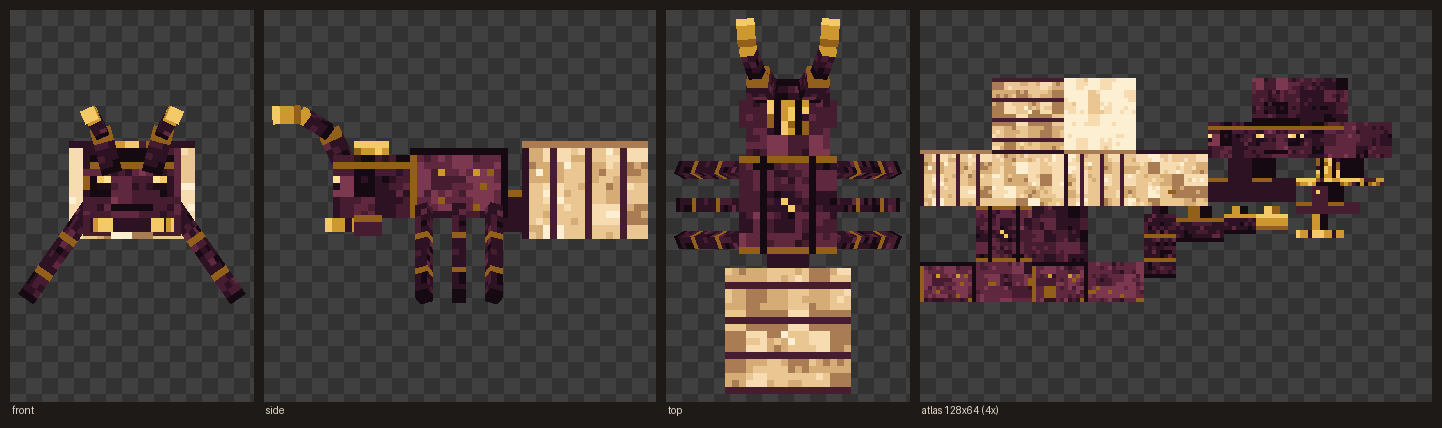
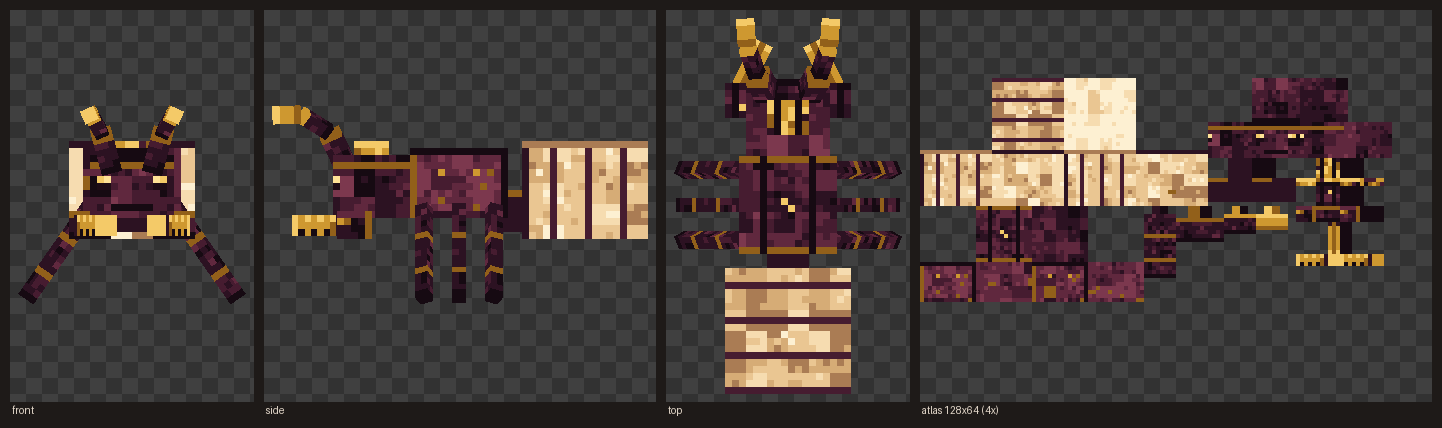
feat(queen): bigger, serrated pincers
Ep2 play-test revisions, WP-3b. Logan's call was "needs bigger more
intimidating pincers"; the round-1 taper and the flat base+tip-under-head
structure are preserved, everything else grows.

Shipped: base 4x3x4 -> 6x4x5, tip 2x2x4 -> 3x3x8,
QUEEN_MANDIBLE_TIP_ANGLE 0.3491 -> 0.45 (~26 degrees). setupAnim is
untouched.

The plan opened with base 5x3x5 / tip 3x2x6. Rendered beside the old jaw
those still read as a thin gold strip under a 12x9x11 skull -- what gives
a mandible weight in the side view is its height and its reach past the
face, and 3x2x6 grew neither much. A four-variant sweep put the step
change at +1 unit of height on each segment plus +2 of tip length.

Tip length, tip pivot and base width turned out to be one decision: a
longer tip swings its point further inward for a given curl, so the pivot
wants to move toward the midline, but the base counter-rotates under the
tip during the idle flex (they hinge about different pivots, neither
nested under the other) so the pivot also wants room from the base's
outer wall. 5-wide base with the pivot at x 6.5 passed at rest and pushed
the tip's rear-outer corner 0.15 units out through the base's flank at
full closure. 6-wide with the pivot at 7 leaves margin on both.

Verified numerically over the whole +/-0.09 flex range, not by eye:
- rear-outer corner stays >= 0.35 units inside the base at every extreme
  (no detached "floating box" seam, the failure the ep2 leg pass fixed)
[…]

diff --git a/assets-src/models.py b/assets-src/models.py
@@ -269,13 +269,24 @@ LARVA = {
 # soldier's 6x5x7), the thorax and head carry the soldier's armour language at
 # roughly double scale, and the legs are long enough to carry all of it.
 #
-# Atlas is 128x64. Box-UV packing, checked to fit:
+# Atlas is 128x64. Box-UV packing, checked to fit -- a region is (2d+2w) wide by
+# (d+h) tall, so a box that grows needs its slot re-measured, not just re-placed:
 #   gaster   (0,  0)  72x32     thorax  (0, 32)  56x24
 #   head     (72, 0)  46x20     petiole (72,20)  22x11
-#   crest    (94,20)  22x7      mandible_base (94,27) 16x7
-#   mandible_tip (94,34) 12x6   leg      (56,32)   8x18
+#   crest    (94,20)  22x7      mandible_base (94,27) 22x9
+#   mandible_tip (94,36) 22x11  leg      (56,32)   8x18
 #   antenna_base (64,32) 12x9   antenna_mid   (76,32)  8x7
 #   antenna_tip  (84,32)  8x6
+#
+# The two mandible slots grew with the WP-3b pincers (16x7 -> 22x9, 12x6 -> 22x11) and
+# were re-checked against every neighbour that could collide, not just the ones they
+# touch: crest ends at y=27 so mandible_base starts flush under it; petiole ends at
+# x=94 so both slots start flush right of it; head ends at y=20 and gaster at x=72,
+# both clear; thorax/leg/antenna_base/antenna_mid all live at x<=76, and antenna_tip
+# ends at x=92, so the whole x>=94 column below y=27 is the mandibles' alone. Widest
+# new right edge is 116 and lowest new bottom is 47, inside the 128x64 sheet with room
+# to spare. Verified by exhaustive pairwise rect overlap over every cube in QUEEN_ANT,
+# not by reading this comment.
 #
 # Ground is y=24; her back sits at y=0, i.e. 24px = 1.5 blocks tall, under the
 # 1.8-block hitbox.
@@ -298,16 +309,50 @@ QUEEN_LEG_ROOT_Y = 9.5
 QUEEN_LEG_LENGTH = 16
 
 # Play-test round 1, spec item 2: the mandibles read "too chunky" -- reworked from one
-# 5x4x8 block per side into two tapered segments (base 4x3x4, tip 2x2x4) so the jaw
-# actually narrows toward the point instead of staying a uniform slab. The tip also
-# curls toward the midline (yRot) for a pincer silhouette; sign is empirical -- verified
-# by rendering the preview and checking the tips converge rather than splay. Both
-# segments stay children of `head`, matching the flat single-level part list every other
-# model here uses (see the module docstring): the base's own rest rotation is the
-# identity, so nesting the tip under `head` directly instead of under the base produces
-# an identical absolute pose while keeping this file's "poses are absolute" invariant
-# intact -- no hierarchical composition to hand-simulate.
-QUEEN_MANDIBLE_TIP_ANGLE = 0.3491   # ~20 degrees
+# 5x4x8 block per side into two tapered segments so the jaw actually narrows toward the
+# point instead of staying a uniform slab. The tip also curls toward the midline (yRot)
+# for a pincer silhouette; sign is empirical -- verified by rendering the preview and
+# checking the tips converge rather than splay. Both segments stay children of `head`,
+# matching the flat single-level part list every other model here uses (see the module
+# docstring): the base's own rest rotation is the identity, so nesting the tip under
+# `head` directly instead of under the base produces an identical absolute pose while
+# keeping this file's "poses are absolute" invariant intact -- no hierarchical
+# composition to hand-simulate.
+#
+# Play-test round 2 (ep2), WP-3b: "needs bigger more intimidating pincers." The taper
+# survives, everything else grows -- base 4x3x4 -> 6x4x5, tip 2x2x4 -> 3x3x8, curl
+# 0.3491 -> 0.45 rad. The plan's opening targets were base 5x3x5 / tip 3x2x6; rendered
+# side by side against the old jaw those still read as a thin gold strip under a 12x9x11
+# skull, because what gives a jaw weight in the side view is its HEIGHT and its reach
+# past the face, and 3x2x6 grew neither much. A four-variant sweep settled the step where
+# the silhouette stops reading as a moustache and starts reading as tusks. The taper is
+# still there; it runs 6->3 in width and 4->3 in height instead of 4->2 and 3->2.
+#
+# Four numbers hold the silhouette together and none of them is free:
+#   * the base is RECESSED (front face z=-17.5 against the skull's z=-18) so it never
+#     goes coplanar with the face; it overhangs the 12-wide skull by 3 units per side and
+#     hangs 3 below it, which is what gives the jaws mass from the front. Its top plane
+#     (y=10) sits INSIDE the skull, which is what roots it -- interpenetration is fine,
+#     a shared plane is not, and every plane here is checked against the skull's for
+#     exactly that.
+#   * the tip pivots 1.5 units INSIDE the base (pivot z=-16 vs base front -17.5) and is
+#     narrower (3 vs 6) and shorter (3 vs 4) than it on the other two axes, so its whole
+#     rear face stays buried whatever the flex does. Checked at both extremes of
+#     setupAnim's +/-0.09 flex, which rotates base and tip about DIFFERENT pivots and so
+#     does NOT preserve their relative pose: worst case leaves the rear-outer corner
+#     0.35 units inside the base's outer wall. A shorter overlap detaches the tip at full
+#     gape -- the same "floating box" failure the legs had in the ep2 model pass.
+#   * the tip pivot sits at x +/-7, one unit inside the base's outer wall. Pivot, tip
+#     length and base WIDTH are a single decision, not three: the longer the tip, the
+#     further its point swings inward, so a pivot nearer the midline closes the gap
+#     between the two points; but a pivot nearer the outer wall is what the counter-
+#     rotating base runs out of room for. 6-wide base + pivot 7 is the pair that leaves
+#     margin on both. An earlier 5-wide/pivot-6.5 attempt passed at rest and pushed the
+#     tip 0.15 units out through the base's flank at full closure.
+#   * 0.45 rad brings the points from 4.3 units apart at rest to 3.2 at full closure --
+#     visibly converging, never intersecting -- and the far corner reaches z=-23.9, i.e.
+#     5.9 units clear of the skull's front plane (it used to clear it by 0.8).
+QUEEN_MANDIBLE_TIP_ANGLE = 0.45   # ~26 degrees
 
 # Ep2 model pass, item 2: the antennae were one straight 2x7x2 spike per side,
 # which at her scale read as a stray leg glued to the skull rather than as a
@@ -379,19 +424,19 @@ QUEEN_ANT = {
             {"off": (72, 0), "box": (-6, -4.5, -11, 12, 9, 11)},        # skull
             {"off": (94, 20), "box": (-3, -6.5, -8, 6, 2, 5)},          # crest
         ]},
-        {"name": "mandible_r_base", "pose": (-3, 12, -11), "cubes": [
-            {"off": (94, 27), "box": (-4, -1.5, -4, 4, 3, 4)},
+        {"name": "mandible_r_base", "pose": (-3, 12, -12.5), "cubes": [
+            {"off": (94, 27), "box": (-6, -2, -5, 6, 4, 5)},
         ]},
-        {"name": "mandible_r_tip", "pose": (-5, 12, -15),
+        {"name": "mandible_r_tip", "pose": (-7, 12, -16),
          "rot": (0, -QUEEN_MANDIBLE_TIP_ANGLE, 0), "cubes": [
-            {"off": (94, 34), "box": (-1, -1, -4, 2, 2, 4)},
+            {"off": (94, 36), "box": (-1.5, -1.5, -8, 3, 3, 8)},
         ]},
-        {"name": "mandible_l_base", "pose": (3, 12, -11), "cubes": [
-            {"off": (94, 27), "box": (0, -1.5, -4, 4, 3, 4)},
+        {"name": "mandible_l_base", "pose": (3, 12, -12.5), "cubes": [
+            {"off": (94, 27), "box": (0, -2, -5, 6, 4, 5)},
         ]},
-        {"name": "mandible_l_tip", "pose": (5, 12, -15),
+        {"name": "mandible_l_tip", "pose": (7, 12, -16),
          "rot": (0, QUEEN_MANDIBLE_TIP_ANGLE, 0), "cubes": [
-            {"off": (94, 34), "box": (-1, -1, -4, 2, 2, 4)},
+            {"off": (94, 36), "box": (-1.5, -1.5, -8, 3, 3, 8)},
         ]},
         # --- gaster: the mass. Petiole waist, then the egg-swollen abdomen ------
         {"name": "gaster", "pose": (0, 4, 0), "cubes": [
@@ -1229,23 +1274,58 @@ def paint_queen_ant():
     hband(d, r["north"], 1, Q_PLUM_DARKEST)      # shadow where it meets the skull
 
     # ---- mandibles: plum base with a gold joint accent, then a slimmer gold ------
-    # ---- tip that carries the biting point (play-test round 1, spec item 2) ------
-    r = rects(parts["mandible_r_base"]["cubes"][0])
+    # ---- tip that carries the biting point (play-test round 1, spec item 2; ------
+    # ---- enlarged and serrated for round 2, WP-3b) -------------------------------
+    # Everything here is painted MIRROR-SYMMETRICALLY across west/east. Java draws the
+    # left mandible with .mirror(), the preview renderer does not, so any detail put on
+    # one flank only would sit on the inner face in game and the outer face in the QA
+    # preview -- i.e. the gate would be judging a different model than the one shipping.
+    # Symmetric paint makes the two agree, and a serrated blade wants teeth on both
+    # flanks anyway.
+    #
+    # Rect orientation used below (module docstring): on west/east, rect-x 0 is the
+    # FRONT (min Z) end and rect-y 0 the world-top row; on the world-top rect, rect-y 0
+    # is the BACK and the last row is the front.
+    # Every index below is derived from the box dims rather than written as a literal.
+    # These two boxes have already been resized twice by play-test feedback; hardcoded
+    # rect coordinates silently slide off the face when that happens (a band lands one
+    # texel in from the edge it was meant to be ON), and nothing errors.
+    cube = parts["mandible_r_base"]["cubes"][0]
+    bw, bh, bd = (int(v) for v in cube["box"][3:])
+    r = rects(cube)                                   # flanks bd x bh, caps bw x bd
     for f in ("west", "north", "east", "south", "top"):
-        fill(d, r[f], Q_PLUM_BASE)
+        noise_rect(d, r[f], "mandible_base:" + f, Q_LIMB_PAL, namespace=NS, cell=2,
+                   jitter=0.3)
     fill(d, r["bottom"], Q_PLUM_DARKEST)
+    fill(d, r["south"], Q_PLUM_DARKEST)               # buried in the skull, never lit
     for f in ("west", "east"):
-        hband(d, r[f], 0, Q_GOLD_DEEP)            # joint accent, same motif as the legs
-    px(d, r["top"], 1, 1, Q_GOLD_BRIGHT)
+        hband(d, r[f], 0, Q_PLUM_MID)                 # lit upper ridge of the jaw muscle
+        vband(d, r[f], bd - 1, Q_GOLD_DEEP)           # joint collar, same motif as the legs
+        px(d, r[f], 0, 1, Q_GOLD)                     # socket the tip hinges out of
+        px(d, r[f], 1, 1, Q_GOLD_DEEP)
+    hband(d, r["north"], 0, Q_GOLD_DEEP)              # gold rim around the tip socket
+    hband(d, r["north"], bh - 1, Q_PLUM_DARKEST)
+    for gx in (1, bw - 2):
+        vband(d, r["top"], gx, Q_PLUM_DARKEST)        # two plate seams down the jaw
+    px(d, r["top"], bw // 2, 1, Q_GOLD_BRIGHT)
 
-    r = rects(parts["mandible_r_tip"]["cubes"][0])
+    cube = parts["mandible_r_tip"]["cubes"][0]
+    tw, th, td = (int(v) for v in cube["box"][3:])
+    r = rects(cube)                                   # flanks td x th, caps tw x td
     for f in ("west", "north", "east", "south", "top"):
         fill(d, r[f], Q_GOLD)
     fill(d, r["bottom"], Q_PLUM_DARKEST)
     fill(d, r["north"], Q_GOLD_BRIGHT)            # the -Z face is the true biting point
     for f in ("west", "east"):
         vband(d, r[f], 0, Q_GOLD_BRIGHT)          # brightest right at the point
-        vband(d, r[f], 3, Q_PLUM_DARK)            # dims back toward the base joint
+        vband(d, r[f], td - 2, Q_GOLD_DEEP)
+        vband(d, r[f], td - 1, Q_PLUM_DARK)       # dims back toward the base joint
+        for sx in range(1, td - 2, 2):            # serration notches along the biting edge
+            px(d, r[f], sx, th - 1, Q_PLUM_DARKEST)
+            px(d, r[f], sx + 1, 0, Q_GOLD_BRIGHT)  # a lit tooth crown between them
+    hband(d, r["top"], td - 1, Q_GOLD_BRIGHT)     # lit leading edge (top rect-y max = front)
+    hband(d, r["top"], 0, Q_PLUM_DARK)            # socket end, shaded
+    vband(d, r["top"], tw // 2, Q_GOLD_DEEP)      # ridge down the blade's spine
 
     # ---- antennae: three segments, darkest at the skull and gold at the point --
     # Each rect's y=0 is its min-Y end, i.e. the end AWAY from the head, so the

diff --git a/src/main/java/com/nogal/formicary/client/model/QueenAntModel.java b/src/main/java/com/nogal/formicary/client/model/QueenAntModel.java
@@ -79,8 +79,13 @@ public class QueenAntModel<T extends Entity> extends EntityModel<T> {
      * sign is per-side (see {@link #createBodyLayer}). Matches
      * {@code assets-src/models.py}'s {@code QUEEN_MANDIBLE_TIP_ANGLE} exactly -- that file
      * is the source of truth, this is the hand translation.
+     *
+     * <p>Play-test round 2 (ep2), WP-3b: "needs bigger more intimidating pincers." Widened
+     * from {@code 0.3491F}; at {@code 0.45F} the tips close from 4.3 units apart at rest to
+     * 3.2 at the extreme of the {@code setupAnim} flex, so they read as converging jaws and
+     * still never intersect.
      */
-    private static final float MANDIBLE_TIP_ANGLE = 0.3491F;
+    private static final float MANDIBLE_TIP_ANGLE = 0.45F;
 
     /** The gaster's rest offset under {@code body}; the idle pulse is written around it. */
     private static final float GASTER_REST_Y = -2.0F;
@@ -161,25 +166,36 @@ public class QueenAntModel<T extends Entity> extends EntityModel<T> {
         // absolute-pose part list -- see QueenAntModel's class javadoc and
         // assets-src/models.py's QUEEN_MANDIBLE_TIP_ANGLE comment. setupAnim flexes both
         // segments of a side by the same angle, so they move together as a rigid unit.
+        //
+        // Play-test round 2 (ep2), WP-3b: base 4x3x4 -> 6x4x5, tip 2x2x4 -> 3x3x8, and the
+        // offsets moved with them. The python spec's poses are ABSOLUTE and `head` sits at
+        // (0, 6.5, -7) absolute, so every offset here is that spec pose minus (0, 6.5, -7):
+        //   mandible_r_base (-3, 12, -12.5) -> (-3, 5.5, -5.5)
+        //   mandible_r_tip  (-7, 12, -16)   -> (-7, 5.5, -9)
+        // Because base and tip flex about their OWN pivots rather than one riding the
+        // other, the tip's 1.5 units of z overlap into the base is what keeps the joint
+        // shut at full gape -- shortening it, or moving the tip pivot outward toward the
+        // base's flank, detaches it. Numbers verified against the spec by the preview
+        // render, which is the only place a mismatch shows up before the client runs.
         head.addOrReplaceChild("mandible_r_base",
                 CubeListBuilder.create()
-                        .texOffs(94, 27).addBox(-4.0F, -1.5F, -4.0F, 4.0F, 3.0F, 4.0F, new CubeDeformation(0.0F)),
-                PartPose.offset(-3.0F, 5.5F, -4.0F));
+                        .texOffs(94, 27).addBox(-6.0F, -2.0F, -5.0F, 6.0F, 4.0F, 5.0F, new CubeDeformation(0.0F)),
+                PartPose.offset(-3.0F, 5.5F, -5.5F));
 
         head.addOrReplaceChild("mandible_r_tip",
                 CubeListBuilder.create()
-                        .texOffs(94, 34).addBox(-1.0F, -1.0F, -4.0F, 2.0F, 2.0F, 4.0F, new CubeDeformation(0.0F)),
-                PartPose.offsetAndRotation(-5.0F, 5.5F, -8.0F, 0.0F, -MANDIBLE_TIP_ANGLE, 0.0F));
+                        .texOffs(94, 36).addBox(-1.5F, -1.5F, -8.0F, 3.0F, 3.0F, 8.0F, new CubeDeformation(0.0F)),
+                PartPose.offsetAndRotation(-7.0F, 5.5F, -9.0F, 0.0F, -MANDIBLE_TIP_ANGLE, 0.0F));
 
         head.addOrReplaceChild("mandible_l_base",
                 CubeListBuilder.create()
-                        .texOffs(94, 27).mirror().addBox(0.0F, -1.5F, -4.0F, 4.0F, 3.0F, 4.0F, new CubeDeformation(0.0F)).mirror(false),
-                PartPose.offset(3.0F, 5.5F, -4.0F));
+                        .texOffs(94, 27).mirror().addBox(0.0F, -2.0F, -5.0F, 6.0F, 4.0F, 5.0F, new CubeDeformation(0.0F)).mirror(false),
+                PartPose.offset(3.0F, 5.5F, -5.5F));
 
         head.addOrReplaceChild("mandible_l_tip",
                 CubeListBuilder.create()
-                        .texOffs(94, 34).mirror().addBox(-1.0F, -1.0F, -4.0F, 2.0F, 2.0F, 4.0F, new CubeDeformation(0.0F)).mirror(false),
-                PartPose.offsetAndRotation(5.0F, 5.5F, -8.0F, 0.0F, MANDIBLE_TIP_ANGLE, 0.0F));
+                        .texOffs(94, 36).mirror().addBox(-1.5F, -1.5F, -8.0F, 3.0F, 3.0F, 8.0F, new CubeDeformation(0.0F)).mirror(false),
+                PartPose.offsetAndRotation(7.0F, 5.5F, -9.0F, 0.0F, MANDIBLE_TIP_ANGLE, 0.0F));
 
         // Antennae: three hinged segments per side, each a CHILD of the last, unlike every
         // other part of this model. See the class javadoc -- the nesting is what lets the

diff --git a/docs/DECISIONS.md b/docs/DECISIONS.md
@@ -1544,3 +1544,49 @@ jittered 384-block grid, sparse wilds between them.
   collision by deleting the most interesting case: a food store in the Royal Depths is the one
   that puts something worth walking to in the tier a player only otherwise enters to fight the
   queen. The gate costs 5-9% of tier-0 draws; the restriction would have cost all of them.
+
+## Play-test round 2 -- queen pincers (2026-08-19)
+
+- **The jaws shipped bigger than the plan's numbers, because the plan's numbers failed the
+  plan's own gate.** WP-3b opened with base 4x3x4 -> 5x3x5 and tip 2x2x4 -> 3x2x6; built and
+  rendered beside the round-1 jaw, that still read as a thin gold strip under a 12x9x11
+  skull. What gives a mandible weight in the side view -- the view a player actually fights
+  her from -- is its HEIGHT and its reach past the face, and 3x2x6 grew neither much. A
+  four-variant sweep rendered in one sheet (5x3x5/3x2x6, 5x4x5/3x3x7, 5x4x5/3x3x8,
+  6x4x5/3x3x8) put the step change at +1 unit of height on each segment plus +2 of tip
+  length. Shipped: **base 6x4x5, tip 3x3x8, `QUEEN_MANDIBLE_TIP_ANGLE` 0.3491 -> 0.45**
+  (~26 degrees). The round-1 taper survives -- it just runs 6->3 in width and 4->3 in height
+  instead of 4->2 and 3->2 -- as does the flat base+tip-under-`head` structure and the rigid
+  same-flex `setupAnim`, both unchanged.
+- **Tip length, tip pivot and base WIDTH are one decision.** The longer the tip, the further
+  its point swings toward the midline for a given curl, so a pivot nearer the midline is what
+  closes the gap between the two points; but the base counter-rotates under the tip during the
+  idle flex (they hinge about DIFFERENT pivots, since neither is nested under the other), so a
+  pivot nearer the base's outer wall is what the base runs out of room for. The first attempt
+  at 5-wide base / pivot x 6.5 passed at rest and pushed the tip's rear-outer corner 0.15 units
+  out through the base's flank at full closure -- a detached-looking seam of exactly the kind
+  the ep2 leg pass was fixing. 6-wide base with the pivot at x 7 leaves margin on both: worst
+  case over the whole +/-0.09 flex is 0.35 units of the rear corner still inside the base, and
+  the points stay 4.3 units apart at rest / 3.2 at full closure, converging without ever
+  intersecting. Far corner reaches z=-23.9, clearing the skull's front plane by 5.9 (it used
+  to clear it by 0.8).
+- **Interpenetration is fine; a shared plane is not.** The base's top plane sits a unit inside
+  the skull and the tip's half a unit inside it -- that is what roots them, and the reason the
+  jaw never looks glued on. What is banned is a face landing exactly ON another face's plane,
+  which z-fights, so every jaw plane is offset from the skull's bottom (y=11) and from the
+  other segment's: base 10..14, tip 10.5..13.5, base front z=-17.5 against the skull's -18.
+- **The jaw texture is painted mirror-symmetrically across `west`/`east`, on purpose.** Java
+  draws the left mandible with `.mirror()` and the preview renderer does not, so any detail
+  put on one flank alone sits on the inner face in game and the outer face in the QA preview
+  -- the gate would be judging a different model than the one shipping. Symmetric paint makes
+  the two agree, and a serrated blade wants teeth on both flanks anyway. Three notch/crown
+  pairs per flank, gold blade, `Q_GOLD_BRIGHT` on the true biting face, plum base with the
+  legs' gold joint-collar motif.
+- **Every rect index in the mandible paint is now derived from the box dims.** These two boxes
+  have been resized twice by play-test feedback, and a hardcoded rect coordinate slides
+  silently off the face it was meant to be on when that happens -- a band lands one texel in
+  from an edge and nothing errors. Atlas slots grew with them: `mandible_base (94,27) 16x7 ->
+  22x9`, `mandible_tip (94,34) 12x6 -> (94,36) 22x11`. Checked by exhaustive pairwise rect
+  overlap over every cube in `QUEEN_ANT` rather than by re-reading the packing comment;
+  neighbours cleared are crest (ends y=27), petiole (ends x=94), head (ends y=20), gaster
+  (ends x=72), and antenna_tip (ends x=92).
